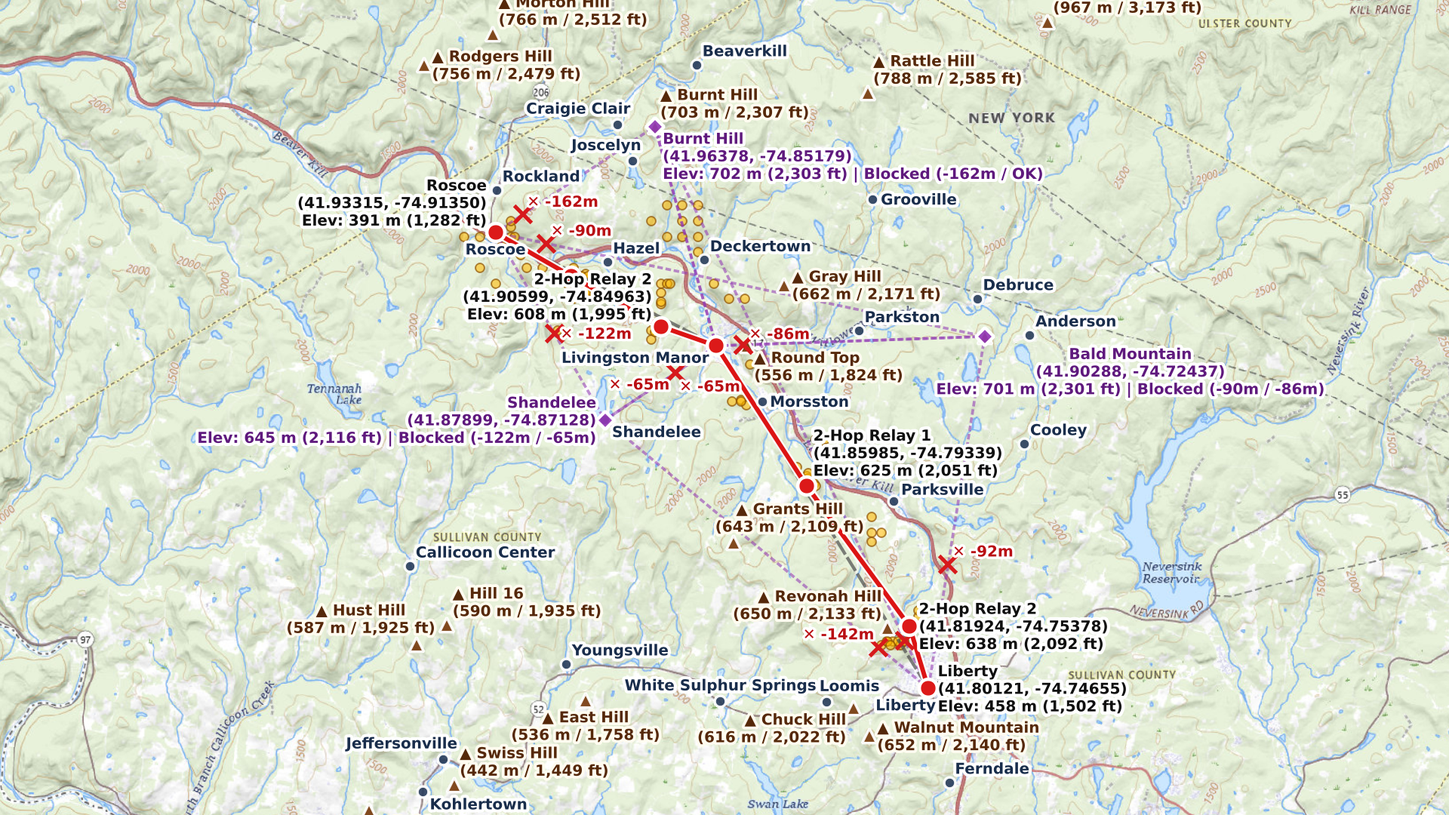
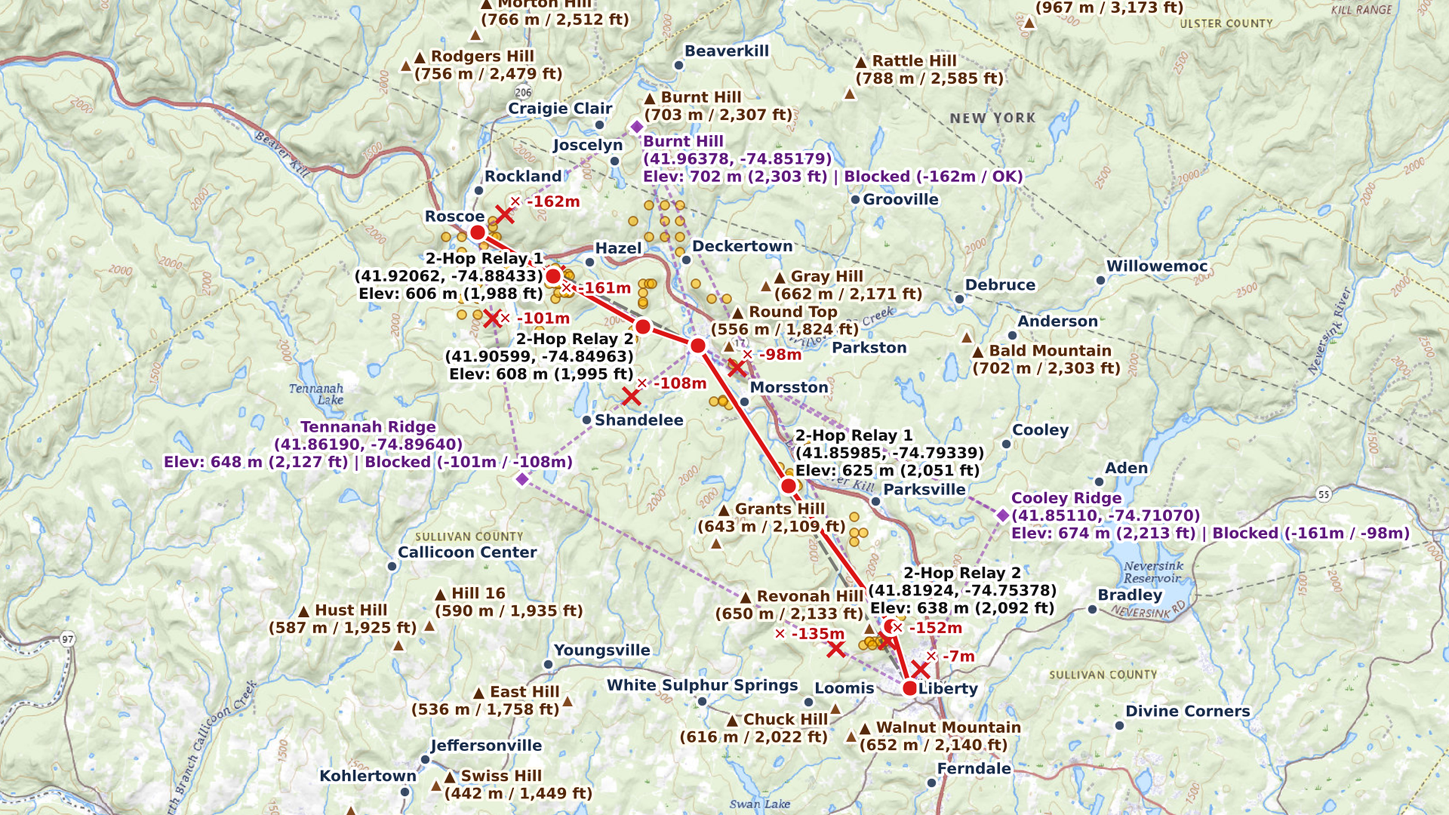
Deduplicate shared candidate blockage markers and space example relays
Deduplicate undirected candidate sightlines and worst-blockage markers across shared hub links in cartography.py, reposition example candidate relays (Burnt Hill, Tennanah Ridge, Cooley Ridge) for cleaner map spacing, and regenerate the example report, map, profiles, and README.

diff --git a/lora_gis/cartography.py b/lora_gis/cartography.py
@@ -216,6 +216,7 @@ def render_topographic_map(
         cb_prov = cand_blockage_layer.dataProvider()
 
         cand_eval_by_key: Dict[str, List[Dict]] = {k: [] for k in candidate_keys}
+        seen_cand_segments = set()
         for res in link_results:
             u_xy = res["u_loc"]["xy"]
             v_xy = res["v_loc"]["xy"]
@@ -227,6 +228,12 @@ def render_topographic_map(
                     (u_xy, c_xy, ec["leg1"]),
                     (c_xy, v_xy, ec["leg2"]),
                 ]:
+                    seg_a = (round(start_xy[0], 1), round(start_xy[1], 1))
+                    seg_b = (round(end_xy[0], 1), round(end_xy[1], 1))
+                    seg_key = (seg_a, seg_b) if seg_a <= seg_b else (seg_b, seg_a)
+                    if seg_key in seen_cand_segments:
+                        continue
+                    seen_cand_segments.add(seg_key)
                     f_sl = QgsFeature()
                     f_sl.setGeometry(
                         QgsGeometry.fromPolylineXY([QgsPointXY(*start_xy), QgsPointXY(*end_xy)])

diff --git a/examples/roscoe-livingston-manor-liberty/report.md b/examples/roscoe-livingston-manor-liberty/report.md
@@ -1,4 +1,4 @@
-# LoRa-GIS 915 MHz LoRa (MeshCore) Relay Report — Roscoe ↔ Livingston Manor ↔ Liberty (2026-11-23_07-40-54)
+# LoRa-GIS 915 MHz LoRa (MeshCore) Relay Report — Roscoe ↔ Livingston Manor ↔ Liberty (2026-11-23_07-50-09)
 
 ![Topographic Relay Map](map.png)
 
@@ -11,13 +11,13 @@
 | **Intermediate Relay Height** | `18.3 m` (`60.0 ft`) AGL |
 | **Roscoe** | `41.933153, -74.913498` — Ground Elev `390.8 m` (`1,282 ft`), Mount `10.00 m` (`32.8 ft`) AGL |
 | **Livingston Manor (Repeater Hub)** | `41.900375, -74.828218` — Ground Elev `433.1 m` (`1,421 ft`), Mount `9.14 m` (`30.0 ft`) AGL |
-| **Liberty** | `41.801209, -74.746552` — Ground Elev `457.9 m` (`1,502 ft`), Mount `10.00 m` (`32.8 ft`) AGL |
+| **Liberty** | `41.801209, -74.746552` — Ground Elev `457.8 m` (`1,502 ft`), Mount `10.00 m` (`32.8 ft`) AGL |
 | **Burnt Hill (Candidate Relay)** | `41.963780, -74.851790`, Ground Elev `702.0 m` (`2,303 ft`), Mount `18.30 m` (`60.0 ft`) AGL |
-| **Shandelee (Candidate Relay)** | `41.878986, -74.871275`, Ground Elev `644.9 m` (`2,116 ft`), Mount `18.30 m` (`60.0 ft`) AGL |
-| **Bald Mountain (Candidate Relay)** | `41.902880, -74.724370`, Ground Elev `701.4 m` (`2,301 ft`), Mount `18.30 m` (`60.0 ft`) AGL |
-| **Direct Link (Roscoe ↔ Livingston Manor, `7.95 km`)** | BLOCKED BY TERRAIN (-185.5 m / -609 ft deficit) |
+| **Tennanah Ridge (Candidate Relay)** | `41.861900, -74.896400`, Ground Elev `648.3 m` (`2,127 ft`), Mount `18.30 m` (`60.0 ft`) AGL |
+| **Cooley Ridge (Candidate Relay)** | `41.851100, -74.710700`, Ground Elev `674.5 m` (`2,213 ft`), Mount `18.30 m` (`60.0 ft`) AGL |
+| **Direct Link (Roscoe ↔ Livingston Manor, `7.95 km`)** | BLOCKED BY TERRAIN (-185.4 m / -608 ft deficit) |
 | **Viable 1-Hop Sites (Roscoe ↔ Livingston Manor)** | `0` (`Roscoe` at `33 ft`, `Livingston Manor` at `30 ft`) |
-| **Viable 2-Hop Pairs (Roscoe ↔ Livingston Manor)** | `244` |
+| **Viable 2-Hop Pairs (Roscoe ↔ Livingston Manor)** | `245` |
 | **Direct Link (Livingston Manor ↔ Liberty, `12.93 km`)** | BLOCKED BY TERRAIN (-188.4 m / -618 ft deficit) |
 | **Viable 1-Hop Sites (Livingston Manor ↔ Liberty)** | `0` (`Livingston Manor` at `30 ft`, `Liberty` at `33 ft`) |
 | **Viable 2-Hop Pairs (Livingston Manor ↔ Liberty)** | `84` |
@@ -25,7 +25,7 @@
 ## 2. Roscoe ↔ Livingston Manor Link Analysis (`7.95 km` Direct)
 
 - **Direct Distance**: `7.95 km` (`4.94 mi`)
-- **Direct Line-of-Sight (`33 ft` at Roscoe → `30 ft` at Livingston Manor)**: **BLOCKED BY TERRAIN** — Minimum terrain clearance is `-185.5 m` (`-609 ft`), Min $F_1$ ratio `-811%`.
+- **Direct Line-of-Sight (`33 ft` at Roscoe → `30 ft` at Livingston Manor)**: **BLOCKED BY TERRAIN** — Minimum terrain clearance is `-185.4 m` (`-608 ft`), Min $F_1$ ratio `-810%`.
 
 ### Optimal 2-Hop Repeater Solution (Roscoe ↔ Livingston Manor, Solid Red Path)
 
@@ -34,13 +34,13 @@
 | **Roscoe** | `41.933153, -74.913498` | `E 507171.4, N 4642357.9` | `390.8 m` (`1,282 ft`) | `10.00 m` (`33 ft`) | `400.8 m` (`1,315 ft`) |
 | **2-Hop Relay 1** | `41.920621, -74.884330` | `E 509591.4, N 4640969.4` | `605.8 m` (`1,988 ft`) | `18.3 m` (`60 ft`) | `624.1 m` (`2,048 ft`) |
 | **2-Hop Relay 2** | `41.905989, -74.849633` | `E 512471.4, N 4639349.4` | `608.2 m` (`1,995 ft`) | `18.3 m` (`60 ft`) | `626.5 m` (`2,055 ft`) |
-| **Livingston Manor** | `41.900375, -74.828218` | `E 514248.7, N 4638729.4` | `433.1 m` (`1,421 ft`) | `9.14 m` (`30 ft`) | `442.2 m` (`1,451 ft`) |
+| **Livingston Manor** | `41.900375, -74.828218` | `E 514248.7, N 4638729.4` | `433.1 m` (`1,421 ft`) | `9.14 m` (`30 ft`) | `442.3 m` (`1,451 ft`) |
 
 | Hop Segment | Distance | Min Terrain Clearance | Min 1st Fresnel ($F_1$) Clearance | 915 MHz Free-Space Path Loss (FSPL) |
 | :--- | :--- | :--- | :--- | :--- |
 | **Hop 1: Roscoe → 2-Hop Relay 1** | `2.79 km` (`1.73 mi`) | `12.9 m` (`42 ft`) | **`327%`** | `100.6 dB` |
 | **Hop 2: 2-Hop Relay 1 → 2-Hop Relay 2** | `3.30 km` (`2.05 mi`) | `7.1 m` (`23 ft`) | **`68%`** | `102.1 dB` |
-| **Hop 3: 2-Hop Relay 2 → Livingston Manor** | `1.88 km` (`1.17 mi`) | `10.0 m` (`33 ft`) | **`144%`** | `97.2 dB` |
+| **Hop 3: 2-Hop Relay 2 → Livingston Manor** | `1.88 km` (`1.17 mi`) | `10.1 m` (`33 ft`) | **`144%`** | `97.2 dB` |
 | **Total 2-Hop Link** | **`7.98 km`** (`4.96 mi`, `+0.3%`) | `7.1 m` worst-case | **`68%`** worst-case | Max hop: `102.1 dB` |
 
 ### Explicit Candidate Relay Evaluation (Roscoe ↔ Livingston Manor)
@@ -49,56 +49,56 @@
 
 | Candidate Site | Coordinates (Lat, Lon) | Ground Elev | Mount (AGL) | Leg 1 (Roscoe → C) | Leg 2 (C → Livingston Manor) | 1-Hop Verdict | Total Path |
 | :--- | :--- | :--- | :--- | :--- | :--- | :--- | :--- |
-| **Burnt Hill** | `41.963780, -74.851790` | `702.0 m` (`2,303 ft`) | `18.30 m` (`60 ft`) | BLOCKED (`-161.8 m`, `6.14 km`) | CLEAR: `156%` F1 (`9.5 m`, `7.31 km`, `108.9 dB`) | BLOCKED (`-161.8 m`) | `13.45 km` |
-| **Shandelee** | `41.878986, -74.871275` | `644.9 m` (`2,116 ft`) | `18.30 m` (`60 ft`) | BLOCKED (`-122.0 m`, `6.96 km`) | BLOCKED (`-65.0 m`, `4.29 km`) | BLOCKED (`-122.0 m`) | `11.25 km` |
-| **Bald Mountain** | `41.902880, -74.724370` | `701.4 m` (`2,301 ft`) | `18.30 m` (`60 ft`) | BLOCKED (`-90.3 m`, `16.04 km`) | BLOCKED (`-85.9 m`, `8.62 km`) | BLOCKED (`-90.3 m`) | `24.66 km` |
+| **Burnt Hill** | `41.963780, -74.851790` | `702.0 m` (`2,303 ft`) | `18.30 m` (`60 ft`) | BLOCKED (`-161.8 m`, `6.14 km`) | CLEAR: `156%` F1 (`9.6 m`, `7.31 km`, `108.9 dB`) | BLOCKED (`-161.8 m`) | `13.45 km` |
+| **Tennanah Ridge** | `41.861900, -74.896400` | `648.3 m` (`2,127 ft`) | `18.30 m` (`60 ft`) | BLOCKED (`-101.2 m`, `8.04 km`) | BLOCKED (`-108.0 m`, `7.09 km`) | BLOCKED (`-108.0 m`) | `15.13 km` |
+| **Cooley Ridge** | `41.851100, -74.710700` | `674.5 m` (`2,213 ft`) | `18.30 m` (`60 ft`) | BLOCKED (`-160.8 m`, `19.13 km`) | BLOCKED (`-98.3 m`, `11.18 km`) | BLOCKED (`-160.8 m`) | `30.31 km` |
 
 ### Explicit Candidate Sensitivity to Livingston Manor Repeater Height
 
-| Livingston Manor Height | Burnt Hill | Shandelee | Bald Mountain |
+| Livingston Manor Height | Burnt Hill | Tennanah Ridge | Cooley Ridge |
 | :--- | :--- | :--- | :--- |
-| **30 ft (9.14 m) at Livingston Manor** | Blocked (L1 blk, L2 OK; `-161.8 m`) | Blocked (L1 blk, L2 blk; `-122.0 m`) | Blocked (L1 blk, L2 blk; `-90.3 m`) |
-| **33 ft (10.0 m) at Livingston Manor** | Blocked (L1 blk, L2 OK; `-161.8 m`) | Blocked (L1 blk, L2 blk; `-122.0 m`) | Blocked (L1 blk, L2 blk; `-90.3 m`) |
-| **45 ft (13.7 m) at Livingston Manor** | Blocked (L1 blk, L2 OK; `-161.8 m`) | Blocked (L1 blk, L2 blk; `-122.0 m`) | Blocked (L1 blk, L2 blk; `-90.3 m`) |
-| **60 ft (18.3 m) at Livingston Manor** | Blocked (L1 blk, L2 OK; `-161.8 m`) | Blocked (L1 blk, L2 blk; `-122.0 m`) | Blocked (L1 blk, L2 blk; `-90.3 m`) |
-| **63 ft (19.14 m = 10m + 30ft) at Livingston Manor** | Blocked (L1 blk, L2 OK; `-161.8 m`) | Blocked (L1 blk, L2 blk; `-122.0 m`) | Blocked (L1 blk, L2 blk; `-90.3 m`) |
-| **90 ft (27.4 m) at Livingston Manor** | Blocked (L1 blk, L2 OK; `-161.8 m`) | Blocked (L1 blk, L2 blk; `-122.0 m`) | Blocked (L1 blk, L2 blk; `-90.3 m`) |
+| **30 ft (9.14 m) at Livingston Manor** | Blocked (L1 blk, L2 OK; `-161.8 m`) | Blocked (L1 blk, L2 blk; `-108.0 m`) | Blocked (L1 blk, L2 blk; `-160.8 m`) |
+| **33 ft (10.0 m) at Livingston Manor** | Blocked (L1 blk, L2 OK; `-161.8 m`) | Blocked (L1 blk, L2 blk; `-107.5 m`) | Blocked (L1 blk, L2 blk; `-160.8 m`) |
+| **45 ft (13.7 m) at Livingston Manor** | Blocked (L1 blk, L2 OK; `-161.8 m`) | Blocked (L1 blk, L2 blk; `-105.1 m`) | Blocked (L1 blk, L2 blk; `-160.8 m`) |
+| **60 ft (18.3 m) at Livingston Manor** | Blocked (L1 blk, L2 OK; `-161.8 m`) | Blocked (L1 blk, L2 blk; `-102.3 m`) | Blocked (L1 blk, L2 blk; `-160.8 m`) |
+| **63 ft (19.14 m = 10m + 30ft) at Livingston Manor** | Blocked (L1 blk, L2 OK; `-161.8 m`) | Blocked (L1 blk, L2 blk; `-101.8 m`) | Blocked (L1 blk, L2 blk; `-160.8 m`) |
+| **90 ft (27.4 m) at Livingston Manor** | Blocked (L1 blk, L2 OK; `-161.8 m`) | Blocked (L1 blk, L2 blk; `-101.2 m`) | Blocked (L1 blk, L2 blk; `-160.8 m`) |
 
 ### Explicit Candidate 2-Hop Pair Evaluation (Roscoe ↔ Livingston Manor)
 
 | Relay 1 -> Relay 2 | Hop 1 (Roscoe → R1) | Hop 2 (R1 → R2) | Hop 3 (R2 → Livingston Manor) | Verdict | Total Path |
 | :--- | :--- | :--- | :--- | :--- | :--- |
-| **Bald Mountain** → **Shandelee** | BLK `-90.3 m` | CLEAR `40%` | BLK `-65.0 m` | Blocked (`-90.3 m`) | `32.80 km` |
-| **Bald Mountain** → **Burnt Hill** | BLK `-90.3 m` | CLEAR `20%` | CLEAR `156%` | Blocked (`-90.3 m`) | `35.89 km` |
-| **Shandelee** → **Burnt Hill** | BLK `-122.0 m` | CLEAR `96%` | CLEAR `156%` | Blocked (`-122.0 m`) | `23.82 km` |
-| **Shandelee** → **Bald Mountain** | BLK `-122.0 m` | CLEAR `40%` | BLK `-85.9 m` | Blocked (`-122.0 m`) | `28.05 km` |
-| **Burnt Hill** → **Shandelee** | BLK `-161.8 m` | CLEAR `96%` | BLK `-65.0 m` | Blocked (`-161.8 m`) | `19.98 km` |
-| **Burnt Hill** → **Bald Mountain** | BLK `-161.8 m` | CLEAR `20%` | BLK `-85.9 m` | Blocked (`-161.8 m`) | `27.30 km` |
+| **Tennanah Ridge** → **Burnt Hill** | BLK `-101.2 m` | CLEAR `20%` | CLEAR `156%` | Blocked (`-101.2 m`) | `27.24 km` |
+| **Tennanah Ridge** → **Cooley Ridge** | BLK `-101.2 m` | CLEAR `110%` | BLK `-98.3 m` | Blocked (`-101.2 m`) | `34.68 km` |
+| **Cooley Ridge** → **Tennanah Ridge** | BLK `-160.8 m` | CLEAR `110%` | BLK `-108.0 m` | Blocked (`-160.8 m`) | `41.68 km` |
+| **Cooley Ridge** → **Burnt Hill** | BLK `-160.8 m` | CLEAR `104%` | CLEAR `156%` | Blocked (`-160.8 m`) | `43.57 km` |
+| **Burnt Hill** → **Tennanah Ridge** | BLK `-161.8 m` | CLEAR `20%` | BLK `-108.0 m` | Blocked (`-161.8 m`) | `25.13 km` |
+| **Burnt Hill** → **Cooley Ridge** | BLK `-161.8 m` | CLEAR `104%` | BLK `-98.3 m` | Blocked (`-161.8 m`) | `34.45 km` |
 
 ### Top Hybrid 2-Hop Solutions (1 Explicit Candidate + 1 Grid Relay, Roscoe ↔ Livingston Manor)
 
 | Rank | Relay 1 | Relay 2 | Hop 1 $F_1$ | Hop 2 $F_1$ | Hop 3 $F_1$ | Worst-Case $F_1$ | Total Path |
 | :--- | :--- | :--- | :--- | :--- | :--- | :--- | :--- |
-| `#1` | Grid (`41.92117, -74.89301`) | **Burnt Hill** | `295%` | `129%` | `156%` | **`129%`** (`9.5 m`) | `15.30 km` |
-| `#2` | Grid (`41.92224, -74.88433`) | **Burnt Hill** | `157%` | `112%` | `156%` | **`112%`** (`9.5 m`) | `15.35 km` |
-| `#3` | Grid (`41.92117, -74.88939`) | **Burnt Hill** | `286%` | `79%` | `156%` | **`79%`** (`9.5 m`) | `15.37 km` |
-| `#4` | Grid (`41.92063, -74.89301`) | **Burnt Hill** | `323%` | `178%` | `156%` | **`156%`** (`9.5 m`) | `15.39 km` |
-| `#5` | Grid (`41.92063, -74.89084`) | **Burnt Hill** | `309%` | `144%` | `156%` | **`144%`** (`9.5 m`) | `15.43 km` |
-| `#6` | Grid (`41.92116, -74.88578`) | **Burnt Hill** | `292%` | `182%` | `156%` | **`156%`** (`9.5 m`) | `15.47 km` |
-| `#7` | Grid (`41.92062, -74.88867`) | **Burnt Hill** | `297%` | `120%` | `156%` | **`120%`** (`9.5 m`) | `15.47 km` |
-| `#8` | Grid (`41.92062, -74.88650`) | **Burnt Hill** | `307%` | `181%` | `156%` | **`156%`** (`9.5 m`) | `15.53 km` |
-| `#9` | Grid (`41.92116, -74.88216`) | **Burnt Hill** | `224%` | `248%` | `156%` | **`156%`** (`9.5 m`) | `15.59 km` |
-| `#10` | Grid (`41.92062, -74.88433`) | **Burnt Hill** | `327%` | `301%` | `156%` | **`156%`** (`9.5 m`) | `15.59 km` |
+| `#1` | Grid (`41.92117, -74.89301`) | **Burnt Hill** | `295%` | `128%` | `156%` | **`128%`** (`9.6 m`) | `15.30 km` |
+| `#2` | Grid (`41.92224, -74.88433`) | **Burnt Hill** | `157%` | `112%` | `156%` | **`112%`** (`9.6 m`) | `15.35 km` |
+| `#3` | Grid (`41.92117, -74.88939`) | **Burnt Hill** | `286%` | `79%` | `156%` | **`79%`** (`9.6 m`) | `15.37 km` |
+| `#4` | Grid (`41.92063, -74.89301`) | **Burnt Hill** | `323%` | `178%` | `156%` | **`156%`** (`9.6 m`) | `15.39 km` |
+| `#5` | Grid (`41.92063, -74.89084`) | **Burnt Hill** | `309%` | `144%` | `156%` | **`144%`** (`9.6 m`) | `15.43 km` |
+| `#6` | Grid (`41.92116, -74.88578`) | **Burnt Hill** | `292%` | `183%` | `156%` | **`156%`** (`9.6 m`) | `15.47 km` |
+| `#7` | Grid (`41.92062, -74.88867`) | **Burnt Hill** | `297%` | `120%` | `156%` | **`120%`** (`9.6 m`) | `15.47 km` |
+| `#8` | Grid (`41.92062, -74.88650`) | **Burnt Hill** | `308%` | `181%` | `156%` | **`156%`** (`9.6 m`) | `15.53 km` |
+| `#9` | Grid (`41.92116, -74.88216`) | **Burnt Hill** | `224%` | `248%` | `156%` | **`156%`** (`9.6 m`) | `15.59 km` |
+| `#10` | Grid (`41.92062, -74.88433`) | **Burnt Hill** | `327%` | `301%` | `156%` | **`156%`** (`9.6 m`) | `15.59 km` |
 
 ### Roscoe ↔ Livingston Manor 1-Hop Sensitivity to Livingston Manor Repeater Height (with `60 ft` Intermediate Relay)
 
 | Livingston Manor Repeater Height | Visible from Roscoe | Visible from Livingston Manor | Viable 1-Hop Sites | Fresnel-Clear (`>= 60% F1`) | Best 1-Hop Relay (Lat, Lon) | Worst-Case $F_1$ (Min Clear) |
 | :--- | :--- | :--- | :--- | :--- | :--- | :--- |
-| **30 ft (9.14 m) at Livingston Manor** | `327` | `463` | `0` | `0` | *None* | — |
+| **30 ft (9.14 m) at Livingston Manor** | `327` | `464` | `0` | `0` | *None* | — |
 | **33 ft (10.0 m) at Livingston Manor** | `327` | `471` | `0` | `0` | *None* | — |
 | **45 ft (13.7 m) at Livingston Manor** | `327` | `488` | `0` | `0` | *None* | — |
-| **60 ft (18.3 m) at Livingston Manor** | `327` | `498` | `0` | `0` | *None* | — |
-| **63 ft (19.14 m = 10m + 30ft) at Livingston Manor** | `327` | `499` | `0` | `0` | *None* | — |
+| **60 ft (18.3 m) at Livingston Manor** | `327` | `499` | `0` | `0` | *None* | — |
+| **63 ft (19.14 m = 10m + 30ft) at Livingston Manor** | `327` | `500` | `0` | `0` | *None* | — |
 | **90 ft (27.4 m) at Livingston Manor** | `327` | `515` | `0` | `0` | *None* | — |
 
 ### Top 10 Ranked 2-Relay Solutions (Roscoe ↔ Livingston Manor)
@@ -107,14 +107,14 @@
 | :--- | :--- | :--- | :--- | :--- | :--- | :--- | :--- |
 | `#1` | `41.920621, -74.884330` | `606 m` (`1,988 ft`) | `41.905989, -74.849633` | `608 m` (`1,995 ft`) | **`68%`** | `7.1 m` | `7.98 km` (`4.96 mi`) |
 | `#2` | `41.920618, -74.882160` | `601 m` (`1,972 ft`) | `41.905989, -74.849633` | `608 m` (`1,995 ft`) | **`63%`** | `6.5 m` | `7.98 km` (`4.96 mi`) |
-| `#3` | `41.920614, -74.877818` | `579 m` (`1,900 ft`) | `41.912474, -74.849617` | `588 m` (`1,928 ft`) | **`71%`** | `8.9 m` | `8.00 km` (`4.97 mi`) |
-| `#4` | `41.915753, -74.879998` | `657 m` (`2,155 ft`) | `41.905987, -74.847462` | `598 m` (`1,961 ft`) | **`63%`** | `7.5 m` | `8.00 km` (`4.97 mi`) |
-| `#5` | `41.915753, -74.879998` | `657 m` (`2,155 ft`) | `41.905989, -74.849633` | `608 m` (`1,995 ft`) | **`121%`** | `10.0 m` | `8.01 km` (`4.98 mi`) |
-| `#6` | `41.920616, -74.879989` | `594 m` (`1,949 ft`) | `41.912474, -74.849617` | `588 m` (`1,928 ft`) | **`71%`** | `8.9 m` | `8.01 km` (`4.98 mi`) |
+| `#3` | `41.920614, -74.877818` | `579 m` (`1,900 ft`) | `41.912474, -74.849617` | `588 m` (`1,928 ft`) | **`71%`** | `9.0 m` | `8.00 km` (`4.97 mi`) |
+| `#4` | `41.915753, -74.879998` | `657 m` (`2,155 ft`) | `41.905987, -74.847462` | `598 m` (`1,961 ft`) | **`63%`** | `7.4 m` | `8.00 km` (`4.97 mi`) |
+| `#5` | `41.915753, -74.879998` | `657 m` (`2,155 ft`) | `41.905989, -74.849633` | `608 m` (`1,995 ft`) | **`121%`** | `10.1 m` | `8.01 km` (`4.98 mi`) |
+| `#6` | `41.920616, -74.879989` | `594 m` (`1,949 ft`) | `41.912474, -74.849617` | `588 m` (`1,928 ft`) | **`71%`** | `9.0 m` | `8.01 km` (`4.98 mi`) |
 | `#7` | `41.915751, -74.878551` | `655 m` (`2,149 ft`) | `41.904909, -74.849635` | `606 m` (`1,988 ft`) | **`73%`** | `7.0 m` | `8.01 km` (`4.98 mi`) |
 | `#8` | `41.931989, -74.906021` | `469 m` (`1,540 ft`) | `41.912474, -74.849617` | `588 m` (`1,928 ft`) | **`62%`** | `8.5 m` | `8.01 km` (`4.98 mi`) |
 | `#9` | `41.921155, -74.878541` | `574 m` (`1,883 ft`) | `41.913015, -74.849616` | `589 m` (`1,932 ft`) | **`77%`** | `8.9 m` | `8.02 km` (`4.98 mi`) |
-| `#10` | `41.920618, -74.882160` | `601 m` (`1,972 ft`) | `41.912474, -74.849617` | `588 m` (`1,928 ft`) | **`71%`** | `8.9 m` | `8.02 km` (`4.98 mi`) |
+| `#10` | `41.920618, -74.882160` | `601 m` (`1,972 ft`) | `41.912474, -74.849617` | `588 m` (`1,928 ft`) | **`71%`** | `9.0 m` | `8.02 km` (`4.98 mi`) |
 
 ## 3. Livingston Manor ↔ Liberty Link Analysis (`12.93 km` Direct)
 
@@ -125,15 +125,15 @@
 
 | Node | Latitude, Longitude (WGS84) | UTM Zone 18N (E, N) | Ground Elevation | Mount Height (AGL) | Total Tip Elevation (ASL) |
 | :--- | :--- | :--- | :--- | :--- | :--- |
-| **Livingston Manor** | `41.900375, -74.828218` | `E 514248.7, N 4638729.4` | `433.1 m` (`1,421 ft`) | `9.14 m` (`30 ft`) | `442.2 m` (`1,451 ft`) |
+| **Livingston Manor** | `41.900375, -74.828218` | `E 514248.7, N 4638729.4` | `433.1 m` (`1,421 ft`) | `9.14 m` (`30 ft`) | `442.3 m` (`1,451 ft`) |
 | **2-Hop Relay 1** | `41.859847, -74.793387` | `E 517148.7, N 4634236.1` | `625.3 m` (`2,051 ft`) | `18.3 m` (`60 ft`) | `643.6 m` (`2,111 ft`) |
 | **2-Hop Relay 2** | `41.819238, -74.753783` | `E 520448.7, N 4629736.1` | `637.6 m` (`2,092 ft`) | `18.3 m` (`60 ft`) | `655.9 m` (`2,152 ft`) |
-| **Liberty** | `41.801209, -74.746552` | `E 521055.2, N 4627736.1` | `457.9 m` (`1,502 ft`) | `10.00 m` (`33 ft`) | `467.9 m` (`1,535 ft`) |
+| **Liberty** | `41.801209, -74.746552` | `E 521055.2, N 4627736.1` | `457.8 m` (`1,502 ft`) | `10.00 m` (`33 ft`) | `467.8 m` (`1,535 ft`) |
 
 | Hop Segment | Distance | Min Terrain Clearance | Min 1st Fresnel ($F_1$) Clearance | 915 MHz Free-Space Path Loss (FSPL) |
 | :--- | :--- | :--- | :--- | :--- |
-| **Hop 1: Livingston Manor → 2-Hop Relay 1** | `5.35 km` (`3.32 mi`) | `11.9 m` (`39 ft`) | **`77%`** | `106.2 dB` |
-| **Hop 2: 2-Hop Relay 1 → 2-Hop Relay 2** | `5.58 km` (`3.47 mi`) | `11.9 m` (`39 ft`) | **`70%`** | `106.6 dB` |
+| **Hop 1: Livingston Manor → 2-Hop Relay 1** | `5.35 km` (`3.32 mi`) | `12.0 m` (`39 ft`) | **`77%`** | `106.2 dB` |
+| **Hop 2: 2-Hop Relay 1 → 2-Hop Relay 2** | `5.58 km` (`3.47 mi`) | `11.8 m` (`39 ft`) | **`70%`** | `106.6 dB` |
 | **Hop 3: 2-Hop Relay 2 → Liberty** | `2.09 km` (`1.30 mi`) | `11.1 m` (`36 ft`) | **`296%`** | `98.1 dB` |
 | **Total 2-Hop Link** | **`13.02 km`** (`8.09 mi`, `+0.7%`) | `11.1 m` worst-case | **`70%`** worst-case | Max hop: `106.6 dB` |
 
@@ -143,45 +143,45 @@
 
 | Candidate Site | Coordinates (Lat, Lon) | Ground Elev | Mount (AGL) | Leg 1 (Livingston Manor → C) | Leg 2 (C → Liberty) | 1-Hop Verdict | Total Path |
 | :--- | :--- | :--- | :--- | :--- | :--- | :--- | :--- |
-| **Burnt Hill** | `41.963780, -74.851790` | `702.0 m` (`2,303 ft`) | `18.30 m` (`60 ft`) | CLEAR: `156%` F1 (`9.5 m`, `7.31 km`, `108.9 dB`) | BLOCKED (`-151.6 m`, `20.05 km`) | BLOCKED (`-151.6 m`) | `27.36 km` |
-| **Shandelee** | `41.878986, -74.871275` | `644.9 m` (`2,116 ft`) | `18.30 m` (`60 ft`) | BLOCKED (`-65.0 m`, `4.29 km`) | BLOCKED (`-141.9 m`, `13.48 km`) | BLOCKED (`-141.9 m`) | `17.77 km` |
-| **Bald Mountain** | `41.902880, -74.724370` | `701.4 m` (`2,301 ft`) | `18.30 m` (`60 ft`) | BLOCKED (`-85.9 m`, `8.62 km`) | BLOCKED (`-92.0 m`, `11.44 km`) | BLOCKED (`-92.0 m`) | `20.06 km` |
+| **Burnt Hill** | `41.963780, -74.851790` | `702.0 m` (`2,303 ft`) | `18.30 m` (`60 ft`) | CLEAR: `156%` F1 (`9.6 m`, `7.31 km`, `108.9 dB`) | BLOCKED (`-151.6 m`, `20.05 km`) | BLOCKED (`-151.6 m`) | `27.36 km` |
+| **Tennanah Ridge** | `41.861900, -74.896400` | `648.3 m` (`2,127 ft`) | `18.30 m` (`60 ft`) | BLOCKED (`-108.0 m`, `7.09 km`) | BLOCKED (`-134.7 m`, `14.15 km`) | BLOCKED (`-134.7 m`) | `21.24 km` |
+| **Cooley Ridge** | `41.851100, -74.710700` | `674.5 m` (`2,213 ft`) | `18.30 m` (`60 ft`) | BLOCKED (`-98.3 m`, `11.18 km`) | BLOCKED (`-7.1 m`, `6.29 km`) | BLOCKED (`-98.3 m`) | `17.47 km` |
 
 ### Explicit Candidate Sensitivity to Livingston Manor Repeater Height
 
-| Livingston Manor Height | Burnt Hill | Shandelee | Bald Mountain |
+| Livingston Manor Height | Burnt Hill | Tennanah Ridge | Cooley Ridge |
 | :--- | :--- | :--- | :--- |
-| **30 ft (9.14 m) at Livingston Manor** | Blocked (L1 OK, L2 blk; `-151.6 m`) | Blocked (L1 blk, L2 blk; `-141.9 m`) | Blocked (L1 blk, L2 blk; `-92.0 m`) |
-| **33 ft (10.0 m) at Livingston Manor** | Blocked (L1 OK, L2 blk; `-151.6 m`) | Blocked (L1 blk, L2 blk; `-141.9 m`) | Blocked (L1 blk, L2 blk; `-92.0 m`) |
-| **45 ft (13.7 m) at Livingston Manor** | Blocked (L1 OK, L2 blk; `-151.6 m`) | Blocked (L1 blk, L2 blk; `-141.9 m`) | Blocked (L1 blk, L2 blk; `-92.0 m`) |
-| **60 ft (18.3 m) at Livingston Manor** | Blocked (L1 OK, L2 blk; `-151.6 m`) | Blocked (L1 blk, L2 blk; `-141.9 m`) | Blocked (L1 blk, L2 blk; `-92.0 m`) |
-| **63 ft (19.14 m = 10m + 30ft) at Livingston Manor** | Blocked (L1 OK, L2 blk; `-151.6 m`) | Blocked (L1 blk, L2 blk; `-141.9 m`) | Blocked (L1 blk, L2 blk; `-92.0 m`) |
-| **90 ft (27.4 m) at Livingston Manor** | Blocked (L1 OK, L2 blk; `-151.6 m`) | Blocked (L1 blk, L2 blk; `-141.9 m`) | Blocked (L1 blk, L2 blk; `-92.0 m`) |
+| **30 ft (9.14 m) at Livingston Manor** | Blocked (L1 OK, L2 blk; `-151.6 m`) | Blocked (L1 blk, L2 blk; `-134.7 m`) | Blocked (L1 blk, L2 blk; `-98.3 m`) |
+| **33 ft (10.0 m) at Livingston Manor** | Blocked (L1 OK, L2 blk; `-151.6 m`) | Blocked (L1 blk, L2 blk; `-134.7 m`) | Blocked (L1 blk, L2 blk; `-97.5 m`) |
+| **45 ft (13.7 m) at Livingston Manor** | Blocked (L1 OK, L2 blk; `-151.6 m`) | Blocked (L1 blk, L2 blk; `-134.7 m`) | Blocked (L1 blk, L2 blk; `-94.3 m`) |
+| **60 ft (18.3 m) at Livingston Manor** | Blocked (L1 OK, L2 blk; `-151.6 m`) | Blocked (L1 blk, L2 blk; `-134.7 m`) | Blocked (L1 blk, L2 blk; `-90.3 m`) |
+| **63 ft (19.14 m = 10m + 30ft) at Livingston Manor** | Blocked (L1 OK, L2 blk; `-151.6 m`) | Blocked (L1 blk, L2 blk; `-134.7 m`) | Blocked (L1 blk, L2 blk; `-89.6 m`) |
+| **90 ft (27.4 m) at Livingston Manor** | Blocked (L1 OK, L2 blk; `-151.6 m`) | Blocked (L1 blk, L2 blk; `-134.7 m`) | Blocked (L1 blk, L2 blk; `-82.3 m`) |
 
 ### Explicit Candidate 2-Hop Pair Evaluation (Livingston Manor ↔ Liberty)
 
 | Relay 1 -> Relay 2 | Hop 1 (Livingston Manor → R1) | Hop 2 (R1 → R2) | Hop 3 (R2 → Liberty) | Verdict | Total Path |
 | :--- | :--- | :--- | :--- | :--- | :--- |
-| **Burnt Hill** → **Bald Mountain** | CLEAR `156%` | CLEAR `20%` | BLK `-92.0 m` | Blocked (`-92.0 m`) | `31.29 km` |
-| **Shandelee** → **Bald Mountain** | BLK `-65.0 m` | CLEAR `40%` | BLK `-92.0 m` | Blocked (`-92.0 m`) | `28.20 km` |
-| **Burnt Hill** → **Shandelee** | CLEAR `156%` | CLEAR `96%` | BLK `-141.9 m` | Blocked (`-141.9 m`) | `30.34 km` |
-| **Bald Mountain** → **Shandelee** | BLK `-85.9 m` | CLEAR `40%` | BLK `-141.9 m` | Blocked (`-141.9 m`) | `34.57 km` |
-| **Shandelee** → **Burnt Hill** | BLK `-65.0 m` | CLEAR `96%` | BLK `-151.6 m` | Blocked (`-151.6 m`) | `33.89 km` |
-| **Bald Mountain** → **Burnt Hill** | BLK `-85.9 m` | CLEAR `20%` | BLK `-151.6 m` | Blocked (`-151.6 m`) | `41.21 km` |
+| **Burnt Hill** → **Cooley Ridge** | CLEAR `156%` | CLEAR `104%` | BLK `-7.1 m` | Blocked (`-7.1 m`) | `30.72 km` |
+| **Tennanah Ridge** → **Cooley Ridge** | BLK `-108.0 m` | CLEAR `110%` | BLK `-7.1 m` | Blocked (`-108.0 m`) | `28.84 km` |
+| **Burnt Hill** → **Tennanah Ridge** | CLEAR `156%` | CLEAR `20%` | BLK `-134.7 m` | Blocked (`-134.7 m`) | `33.36 km` |
+| **Cooley Ridge** → **Tennanah Ridge** | BLK `-98.3 m` | CLEAR `110%` | BLK `-134.7 m` | Blocked (`-134.7 m`) | `40.79 km` |
+| **Tennanah Ridge** → **Burnt Hill** | BLK `-108.0 m` | CLEAR `20%` | BLK `-151.6 m` | Blocked (`-151.6 m`) | `39.04 km` |
+| **Cooley Ridge** → **Burnt Hill** | BLK `-98.3 m` | CLEAR `104%` | BLK `-151.6 m` | Blocked (`-151.6 m`) | `48.36 km` |
 
 ### Top Hybrid 2-Hop Solutions (1 Explicit Candidate + 1 Grid Relay, Livingston Manor ↔ Liberty)
 
 | Rank | Relay 1 | Relay 2 | Hop 1 $F_1$ | Hop 2 $F_1$ | Hop 3 $F_1$ | Worst-Case $F_1$ | Total Path |
 | :--- | :--- | :--- | :--- | :--- | :--- | :--- | :--- |
-| `#1` | **Burnt Hill** | Grid (`41.81492, -74.75597`) | `156%` | `99%` | `207%` | **`99%`** (`9.5 m`) | `27.36 km` |
-| `#2` | **Burnt Hill** | Grid (`41.81474, -74.75621`) | `156%` | `103%` | `144%` | **`103%`** (`8.3 m`) | `27.36 km` |
-| `#3` | **Burnt Hill** | Grid (`41.81384, -74.75742`) | `156%` | `85%` | `335%` | **`85%`** (`9.5 m`) | `27.37 km` |
-| `#4` | **Burnt Hill** | Grid (`41.81924, -74.75378`) | `156%` | `78%` | `296%` | **`78%`** (`9.5 m`) | `27.39 km` |
-| `#5` | **Burnt Hill** | Grid (`41.81978, -74.75378`) | `156%` | `96%` | `295%` | **`96%`** (`9.5 m`) | `27.39 km` |
-| `#6` | **Burnt Hill** | Grid (`41.82140, -74.75377`) | `156%` | `85%` | `68%` | **`68%`** (`4.5 m`) | `27.40 km` |
-| `#7` | **Burnt Hill** | Grid (`41.81475, -74.76223`) | `156%` | `105%` | `156%` | **`105%`** (`9.5 m`) | `27.43 km` |
-| `#8` | **Burnt Hill** | Grid (`41.81493, -74.76247`) | `156%` | `113%` | `137%` | **`113%`** (`9.4 m`) | `27.43 km` |
-| `#9` | **Burnt Hill** | Grid (`41.82140, -74.75161`) | `156%` | `108%` | `250%` | **`108%`** (`9.5 m`) | `27.45 km` |
+| `#1` | **Burnt Hill** | Grid (`41.81492, -74.75597`) | `156%` | `99%` | `209%` | **`99%`** (`9.6 m`) | `27.36 km` |
+| `#2` | **Burnt Hill** | Grid (`41.81474, -74.75621`) | `156%` | `103%` | `145%` | **`103%`** (`8.4 m`) | `27.36 km` |
+| `#3` | **Burnt Hill** | Grid (`41.81384, -74.75742`) | `156%` | `85%` | `334%` | **`85%`** (`9.6 m`) | `27.37 km` |
+| `#4` | **Burnt Hill** | Grid (`41.81924, -74.75378`) | `156%` | `78%` | `296%` | **`78%`** (`9.6 m`) | `27.39 km` |
+| `#5` | **Burnt Hill** | Grid (`41.81978, -74.75378`) | `156%` | `95%` | `294%` | **`95%`** (`9.6 m`) | `27.39 km` |
+| `#6` | **Burnt Hill** | Grid (`41.82140, -74.75377`) | `156%` | `85%` | `68%` | **`68%`** (`4.6 m`) | `27.40 km` |
+| `#7` | **Burnt Hill** | Grid (`41.81475, -74.76223`) | `156%` | `105%` | `156%` | **`105%`** (`9.6 m`) | `27.43 km` |
+| `#8` | **Burnt Hill** | Grid (`41.81493, -74.76247`) | `156%` | `113%` | `137%` | **`113%`** (`9.3 m`) | `27.43 km` |
+| `#9` | **Burnt Hill** | Grid (`41.82140, -74.75161`) | `156%` | `108%` | `251%` | **`108%`** (`9.6 m`) | `27.45 km` |
 | `#10` | **Burnt Hill** | Grid (`41.81494, -74.76464`) | `156%` | `140%` | `82%` | **`82%`** (`9.4 m`) | `27.48 km` |
 
 ### Livingston Manor ↔ Liberty 1-Hop Sensitivity to Livingston Manor Repeater Height (with `60 ft` Intermediate Relay)
@@ -189,10 +189,10 @@
 | Livingston Manor Repeater Height | Visible from Livingston Manor | Visible from Liberty | Viable 1-Hop Sites | Fresnel-Clear (`>= 60% F1`) | Best 1-Hop Relay (Lat, Lon) | Worst-Case $F_1$ (Min Clear) |
 | :--- | :--- | :--- | :--- | :--- | :--- | :--- |
 | **30 ft (9.14 m) at Livingston Manor** | `431` | `241` | `0` | `0` | *None* | — |
-| **33 ft (10.0 m) at Livingston Manor** | `436` | `241` | `0` | `0` | *None* | — |
+| **33 ft (10.0 m) at Livingston Manor** | `435` | `241` | `0` | `0` | *None* | — |
 | **45 ft (13.7 m) at Livingston Manor** | `453` | `241` | `0` | `0` | *None* | — |
 | **60 ft (18.3 m) at Livingston Manor** | `473` | `241` | `0` | `0` | *None* | — |
-| **63 ft (19.14 m = 10m + 30ft) at Livingston Manor** | `480` | `241` | `0` | `0` | *None* | — |
+| **63 ft (19.14 m = 10m + 30ft) at Livingston Manor** | `479` | `241` | `0` | `0` | *None* | — |
 | **90 ft (27.4 m) at Livingston Manor** | `509` | `241` | `0` | `0` | *None* | — |
 
 ### Top 10 Ranked 2-Relay Solutions (Livingston Manor ↔ Liberty)
@@ -202,13 +202,13 @@
 | `#1` | `41.859847, -74.793387` | `625 m` (`2,051 ft`) | `41.819238, -74.753783` | `638 m` (`2,092 ft`) | **`70%`** | `11.1 m` | `13.02 km` (`8.09 mi`) |
 | `#2` | `41.859847, -74.793387` | `625 m` (`2,051 ft`) | `41.813857, -74.764639` | `637 m` (`2,090 ft`) | **`77%`** | `9.5 m` | `13.04 km` (`8.10 mi`) |
 | `#3` | `41.884214, -74.822235` | `607 m` (`1,992 ft`) | `41.819238, -74.753783` | `638 m` (`2,092 ft`) | **`62%`** | `11.1 m` | `13.13 km` (`8.16 mi`) |
-| `#4` | `41.900417, -74.816162` | `555 m` (`1,822 ft`) | `41.814753, -74.762228` | `641 m` (`2,103 ft`) | **`61%`** | `7.8 m` | `13.50 km` (`8.39 mi`) |
-| `#5` | `41.963780, -74.851790` | `702 m` (`2,303 ft`) | `41.814920, -74.755967` | `643 m` (`2,108 ft`) | **`99%`** | `9.5 m` | `27.36 km` (`17.00 mi`) |
-| `#6` | `41.963780, -74.851790` | `702 m` (`2,303 ft`) | `41.814740, -74.756208` | `644 m` (`2,113 ft`) | **`103%`** | `8.3 m` | `27.36 km` (`17.00 mi`) |
-| `#7` | `41.963780, -74.851790` | `702 m` (`2,303 ft`) | `41.813842, -74.757416` | `644 m` (`2,113 ft`) | **`85%`** | `9.5 m` | `27.37 km` (`17.01 mi`) |
-| `#8` | `41.963780, -74.851790` | `702 m` (`2,303 ft`) | `41.819238, -74.753783` | `638 m` (`2,092 ft`) | **`78%`** | `9.5 m` | `27.39 km` (`17.02 mi`) |
-| `#9` | `41.963780, -74.851790` | `702 m` (`2,303 ft`) | `41.819779, -74.753781` | `641 m` (`2,104 ft`) | **`96%`** | `9.5 m` | `27.39 km` (`17.02 mi`) |
-| `#10` | `41.963780, -74.851790` | `702 m` (`2,303 ft`) | `41.821400, -74.753775` | `636 m` (`2,087 ft`) | **`68%`** | `4.5 m` | `27.40 km` (`17.03 mi`) |
+| `#4` | `41.900417, -74.816162` | `555 m` (`1,822 ft`) | `41.814753, -74.762228` | `641 m` (`2,103 ft`) | **`60%`** | `7.7 m` | `13.50 km` (`8.39 mi`) |
+| `#5` | `41.963780, -74.851790` | `702 m` (`2,303 ft`) | `41.814920, -74.755967` | `643 m` (`2,108 ft`) | **`99%`** | `9.6 m` | `27.36 km` (`17.00 mi`) |
+| `#6` | `41.963780, -74.851790` | `702 m` (`2,303 ft`) | `41.814740, -74.756208` | `644 m` (`2,113 ft`) | **`103%`** | `8.4 m` | `27.36 km` (`17.00 mi`) |
+| `#7` | `41.963780, -74.851790` | `702 m` (`2,303 ft`) | `41.813842, -74.757416` | `644 m` (`2,113 ft`) | **`85%`** | `9.6 m` | `27.37 km` (`17.01 mi`) |
+| `#8` | `41.963780, -74.851790` | `702 m` (`2,303 ft`) | `41.819238, -74.753783` | `638 m` (`2,092 ft`) | **`78%`** | `9.6 m` | `27.39 km` (`17.02 mi`) |
+| `#9` | `41.963780, -74.851790` | `702 m` (`2,303 ft`) | `41.819779, -74.753781` | `641 m` (`2,104 ft`) | **`95%`** | `9.6 m` | `27.39 km` (`17.02 mi`) |
+| `#10` | `41.963780, -74.851790` | `702 m` (`2,303 ft`) | `41.821400, -74.753775` | `636 m` (`2,087 ft`) | **`68%`** | `4.6 m` | `27.40 km` (`17.03 mi`) |
 
 ## 4. Grid Resolution Scan Summary
 
@@ -216,7 +216,7 @@
 | :--- | :--- | :--- | :--- | :--- | :--- | :--- | :--- |
 | **Roscoe ↔ Livingston Manor** | `500.0 m` | `228` | `39` | `46` | **`0`** | `1500` | **`68`** |
 | **Roscoe ↔ Livingston Manor** | `300.0 m` | `589` | `84` | `117` | **`0`** | `1500` | **`38`** |
-| **Roscoe ↔ Livingston Manor** | `180.0 m` | `1632` | `221` | `321` | **`0`** | `1500` | **`28`** |
+| **Roscoe ↔ Livingston Manor** | `180.0 m` | `1632` | `221` | `322` | **`0`** | `1500` | **`29`** |
 | **Livingston Manor ↔ Liberty** | `500.0 m` | `468` | `36` | `23` | **`0`** | `714` | **`11`** |
 | **Livingston Manor ↔ Liberty** | `300.0 m` | `1320` | `108` | `63` | **`0`** | `1500` | **`25`** |
 | **Livingston Manor ↔ Liberty** | `180.0 m` | `3577` | `306` | `168` | **`0`** | `1500` | **`19`** |
@@ -252,16 +252,20 @@
 - **Livingston Manor**: `41.90037, -74.82822`
 - **Beaverkill**: `41.98148, -74.83544`
 - **Grooville**: `41.94259, -74.76738`
+- **Divine Corners**: `41.79037, -74.66572`
 - **Loomis**: `41.79731, -74.78572`
 - **Youngsville**: `41.80842, -74.88627`
 - **White Sulphur Springs**: `41.79759, -74.82683`
 - **Parksville**: `41.85537, -74.75960`
 - **Jeffersonville**: `41.78092, -74.93378`
 - **Craigie Clair**: `41.96426, -74.86627`
+- **Willowemoc**: `41.91898, -74.67238`
 - **Deckertown**: `41.92509, -74.83266`
+- **Bradley**: `41.82398, -74.67627`
 - **Joscelyn**: `41.95370, -74.86044`
 - **Ferndale**: `41.77398, -74.73849`
 - **Cooley**: `41.87176, -74.70905`
+- **Aden**: `41.86065, -74.67321`
 - **Debruce**: `41.91370, -74.72710`
 - **Liberty**: `41.80120, -74.74655`
 - **Shandelee**: `41.87898, -74.87127`

diff --git a/README.md b/README.md
@@ -192,13 +192,13 @@ if __name__ == "__main__":
 Generated with:
 
 ```bash
-python3 -m lora_gis --state NY --dem ny-gis --route "Roscoe" "Livingston Manor" "Liberty" --hops 2 --candidates "burnt-hill=41.96378,-74.85179" "Shandelee" "bald-mountain=41.90288,-74.72437"
+python3 -m lora_gis --state NY --dem ny-gis --route "Roscoe" "Livingston Manor" "Liberty" --hops 2 --candidates "burnt-hill=41.96378,-74.85179" "tennanah-ridge=41.8619,-74.8964" "cooley-ridge=41.8511,-74.7107"
 ```
 
 - **Full RF Analysis Report, Topographic Map & Terrain Profiles**: [`examples/roscoe-livingston-manor-liberty/report.md`](examples/roscoe-livingston-manor-liberty/report.md)
-  - **Leg 1 (`Roscoe ↔ Livingston Manor`, `7.95 km`)**: Direct sightline blocked by terrain (`-185.5 m` deficit); solved by a **2-Hop Repeater Pair** (`7.98 km` total path, `68%` worst-case $F_1$ clearance) or a **Hybrid 2-Hop** pairing a grid relay with **Burnt Hill** (`15.30 km`, `129%` $F_1$).
+  - **Leg 1 (`Roscoe ↔ Livingston Manor`, `7.95 km`)**: Direct sightline blocked by terrain (`-185.4 m` deficit); solved by a **2-Hop Repeater Pair** (`7.98 km` total path, `68%` worst-case $F_1$ clearance) or a **Hybrid 2-Hop** pairing a grid relay with **Burnt Hill** (`15.30 km`, `128%` $F_1$).
   - **Leg 2 (`Livingston Manor ↔ Liberty`, `12.93 km`)**: Direct sightline blocked by terrain (`-188.4 m` deficit); solved by a **2-Hop Repeater Pair** (`13.02 km` total path, `70%` worst-case $F_1$ clearance) or a **Hybrid 2-Hop** pairing **Burnt Hill** with a grid relay (`27.36 km`, `99%` $F_1$).
-  - **Explicit Candidate Relays & Terrain Blockage (`Burnt Hill`, `Shandelee`, `Bald Mountain`)**: Evaluates three spaced-out highland candidates across both links with cross-sectional terrain obstruction plots ([`candidate_profiles.png`](examples/roscoe-livingston-manor-liberty/candidate_profiles.png)) and red `✕` ridge blockage markers on [`map.png`](examples/roscoe-livingston-manor-liberty/map.png). **Burnt Hill** (`702 m / 2,303 ft`) clears `Livingston Manor` (`156%` $F_1$, `+9.5 m`) while blocked toward `Roscoe` (`-161.8 m`) and `Liberty` (`-151.6 m`), whereas **Shandelee** (`645 m`) and **Bald Mountain** (`701 m`) are obstructed by intervening ridges on all legs.
+  - **Explicit Candidate Relays & Terrain Blockage (`Burnt Hill`, `Tennanah Ridge`, `Cooley Ridge`)**: Evaluates three spaced-out highland candidates across both links with cross-sectional terrain obstruction plots ([`candidate_profiles.png`](examples/roscoe-livingston-manor-liberty/candidate_profiles.png)) and red `✕` ridge blockage markers on [`map.png`](examples/roscoe-livingston-manor-liberty/map.png). **Burnt Hill** (`702 m / 2,303 ft`) clears `Livingston Manor` (`156%` $F_1$, `+9.6 m`) while blocked toward `Roscoe` (`-161.8 m`) and `Liberty` (`-151.6 m`); **Cooley Ridge** (`674 m`) misses clearing `Liberty` by `-7.1 m` (`-23 ft`), and **Tennanah Ridge** (`648 m`) is obstructed on all legs (`-101.2 m` / `-108.0 m` / `-134.7 m`).
 
 ---
 
